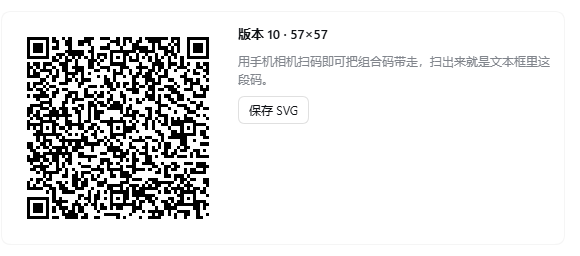
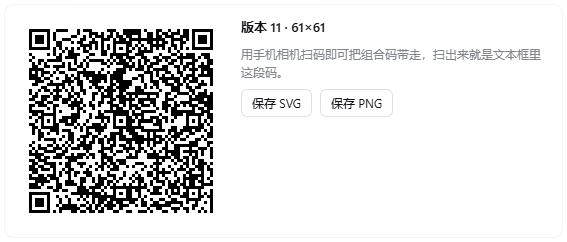
让分享接口先过 DSH 的信任闸，并更新文档截图
- 缺口：宿主半只调 ctx.webServer.register 挂路由，而它本身不校验调用方。实测无凭据的
  GET /api/plugin-share/state 返回 200、POST /parse 直接进入业务逻辑，而同类官方插件
  （open-in-app、config-editor）的对应路由一律 401。后果是本机任意进程都能读到插件
  清单，跨站请求（含 DNS rebinding）也能打到 /import——那条路带上 confirm 就能往
  profile 里装包
- 修法：inject 增加 connection；处理器在任何业务逻辑之前先调
  ctx.connection.requestRejection(req)（Host/Origin 校验 + 浏览器登录 token 鉴权），
  返回 401/403 时直接结束响应，既不读请求体也不碰 pluginManager
- 测试新增 3 项（共 35 项）：被拒绝的调用返回 401 且处理器主体不执行（用一个一旦被
  调用就抛错的 pluginManager 兜底）、被放行的调用能一路走到动作分发、并断言 inject
  里确实声明了 connection
- 实测：修复前无凭据 GET/POST 分别返回 200 与业务错误，修复后一律 401，与官方插件
  行为一致；同时回归验证页面自身的鉴权调用不受影响——导出仍生成 182 字符，真实拖放
  经 /scan 后照旧自动解析出 7 行
- 文档截图全部重拍：主图此前停留在工具栏只有 4 个按钮、没有二维码与扫码入口的版本，
  二维码卡片图也只有「保存 SVG」；现更新为当前界面，并新增英文二维码卡片图供英文
  README 使用（原先它指向中文界面那张）
- 中英 README 安全章节补充信任闸说明，PLAN 记录该约束、成因与测试方式

Changed region(s): [[0.03, 0.0868, 0.9594, 0.8967], [0.4198, 0.405, 0.6896, 0.4917], [0.5697, 0.3471, 0.6896, 0.376]]

diff --git a/README.en.md b/README.en.md
@@ -35,7 +35,7 @@ Click **Export current profile** → the box fills with a code starting with `D1
 
 You can also click **Show QR code** to draw that code as a scannable symbol (click **Hide QR code** to put it away); the panel shows its version and size, and **Save SVG** (vector, sharp at any scale) or **Save PNG** (bitmap, previews everywhere) keeps a copy.
 
-![QR code panel](docs/plugin-share-qr.png)
+![QR code panel](docs/plugin-share-qr-en.png)
 
 **② Import — install someone else's code on this machine**
 
@@ -84,6 +84,7 @@ dsh plugin --profile web add 'github:HGT158/dsh-plugin-share#v0.1.0'
 
 ## Security
 
+- **Every route passes DSH's trust fence first** — each share request asks the composition's `connection` service (`requestRejection`) before anything else: its Host/Origin check defeats DNS rebinding and cross-site calls, and its browser authentication verifies the login token. An unauthenticated local process or web page gets a flat 401 — it cannot read your plugin list and cannot reach the install path. The check runs before the request body is even read.
 - **A code is not a signature** — the CRC32 only catches copy or truncation damage. It **does not** prove authenticity and cannot stop tampering. Check every source in the preview before installing.
 - **Source allowlist** — only npm packages, `github:owner/repo[#ref]`, and official optional DSH builtin bundles. Local paths, `file:`, `link:`, `portal:`, `workspace:`, arbitrary HTTP(S) tarballs, and `git+…` / `git@` / `ssh://` remotes are all refused.
 - **Sources stay visible** — every row names its source (`npm` / `github.com` / `builtin`) and shows the full install spec such as `github:owner/repo#v1.2.3`, so you can confirm it is the repository you expect.
@@ -119,7 +120,7 @@ It targets **upright, clean QR images**: files this plugin saved, a screenshot s
 ## Development
 
 ```powershell
-npm test                        # codec + collector + import transaction + QR + scanner, 32 tests
+npm test                        # codec + collector + import transaction + QR + scanner + route fence, 35 tests
 pnpm pack --dry-run             # inspect what would be published
 npm run encode:example          # build a code from examples/plugins.json
 node src/cli.mjs decode D1...   # decode from the command line
